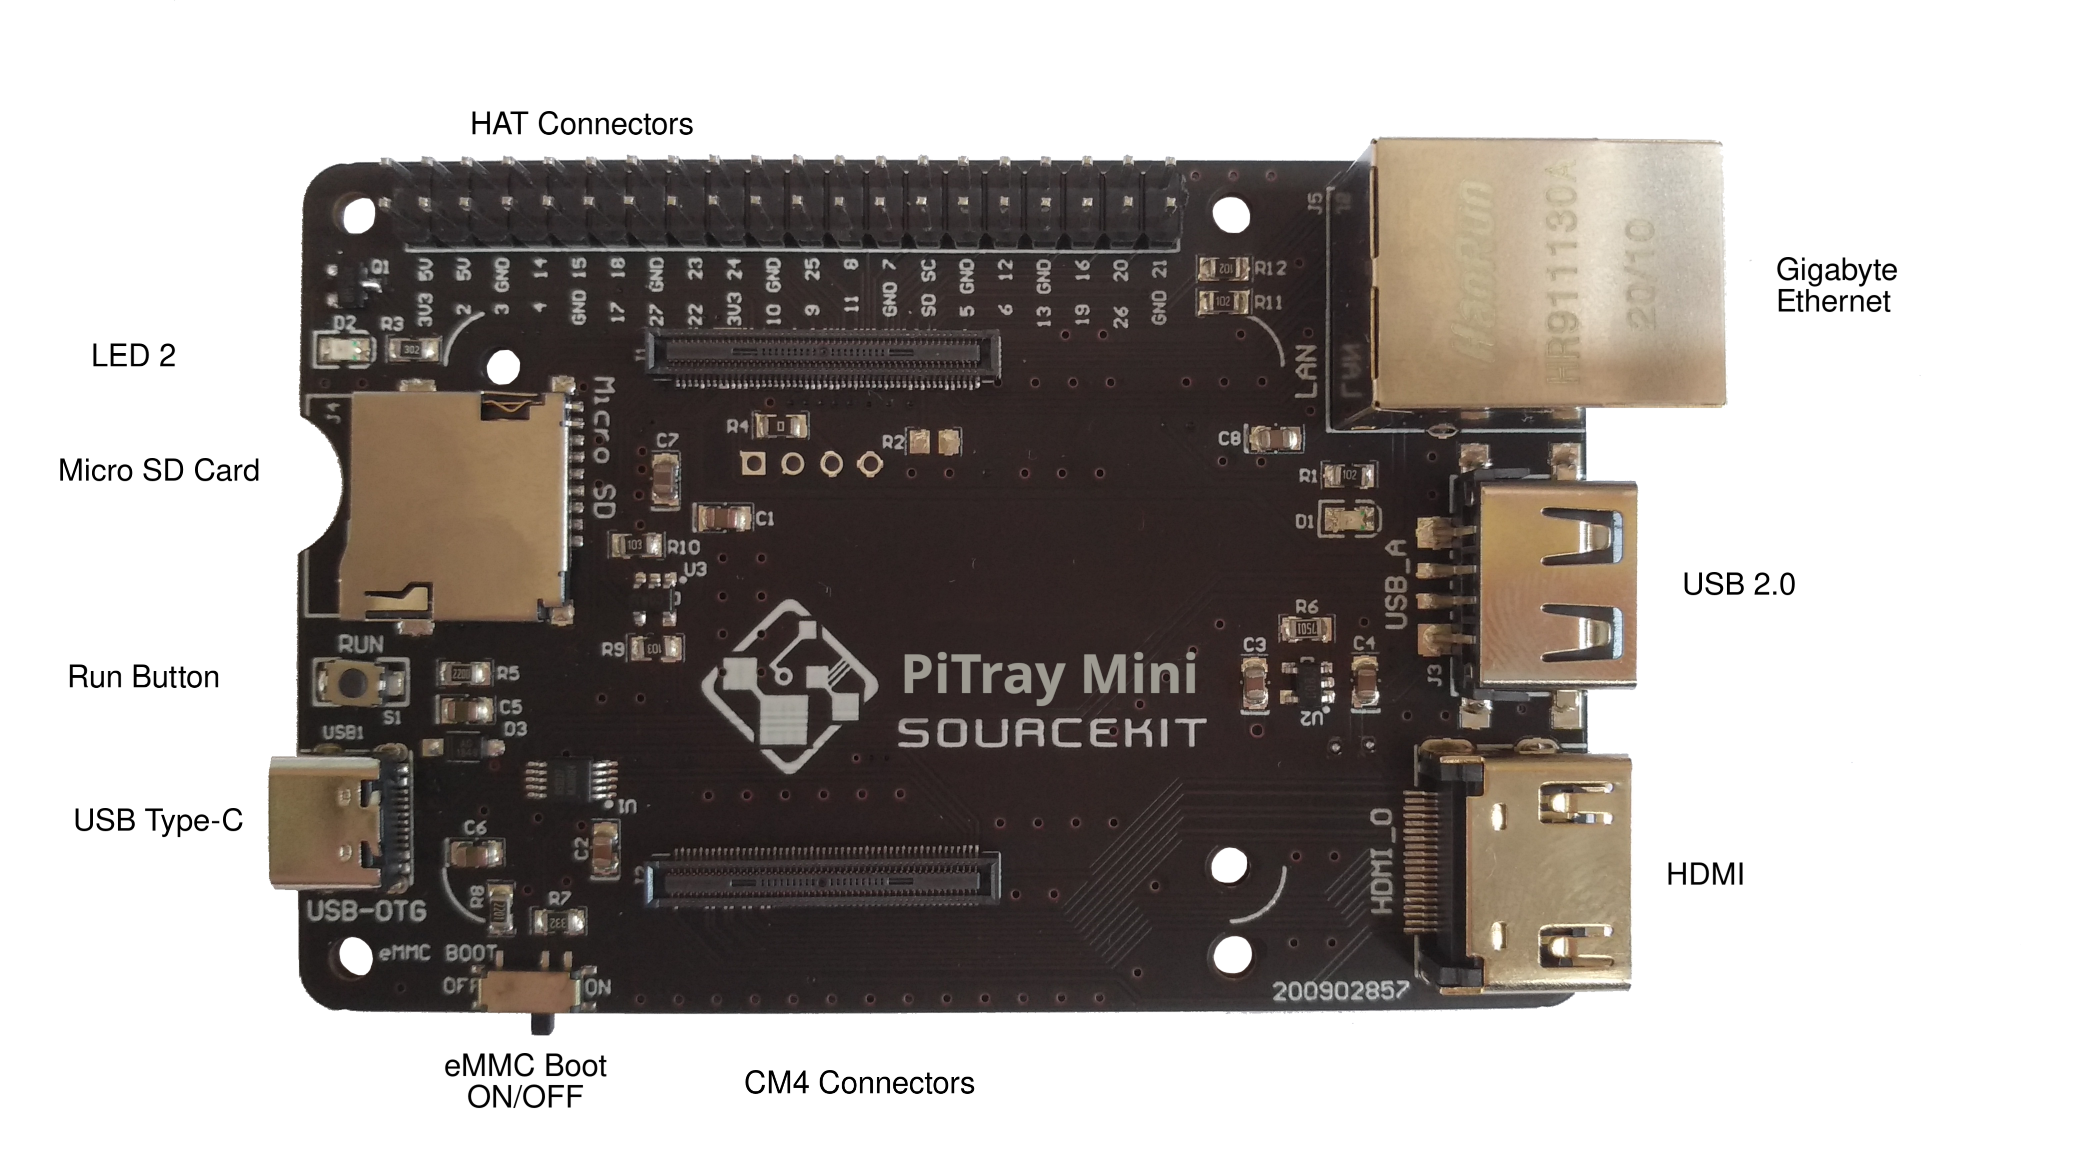
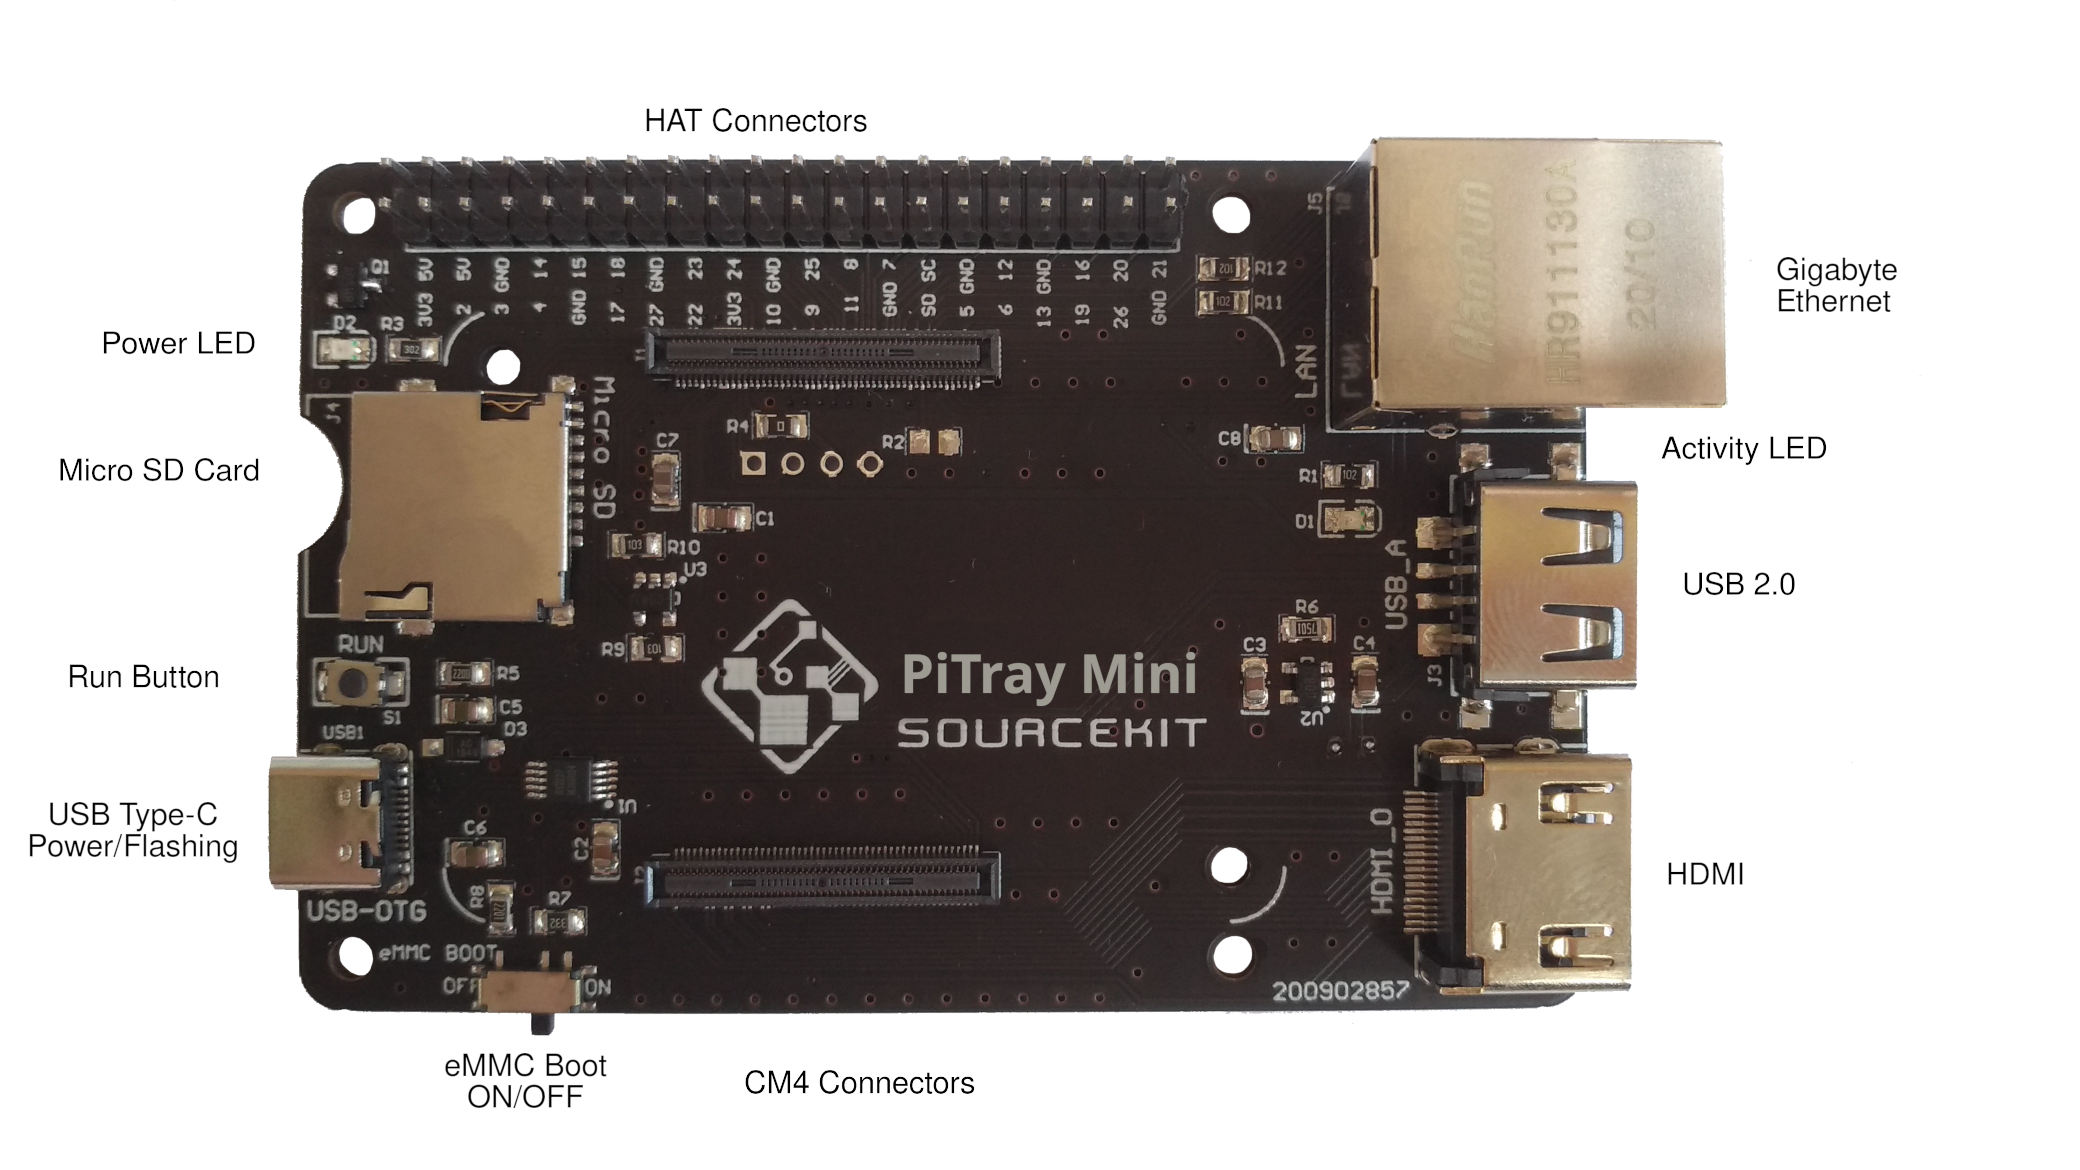
LED mark on layout

diff --git a/PiTray-Mini.md b/PiTray-Mini.md
@@ -18,7 +18,7 @@ It provides an excellent way to bring similar development experience of Raspberr
 # Specification
 
 * 1 CM4 socket: suitable for all variants of Compute Module 4
-* Standard Raspberry Pi HAT connectors
+* 1 set of standard Raspberry Pi HAT connectors
 * 1 Standard HDMI connector
 * 1 Gigabit Ethernet socket
 * 1 On-board USB 2.0 connector
@@ -26,7 +26,11 @@ It provides an excellent way to bring similar development experience of Raspberr
 * 1 USB Type-C connector for powering and also programming eMMC variants of CM4
 * 1 Boot Mode Switch for programming mode and normal mode
 * 1 RUN botton for easy reset
+* 1 Red Power LED
+* 1 Green Activity LED
 * Same dimensions and mounting holes compared to standard raspberry pi 3B/3B+/4B
+* 2 mounting holes for CM4
+* 4 CM4 corner marks for CM4 position guidance
 
 * Input power: +5V
 * Dimensions: 85 mm x 56 mm
